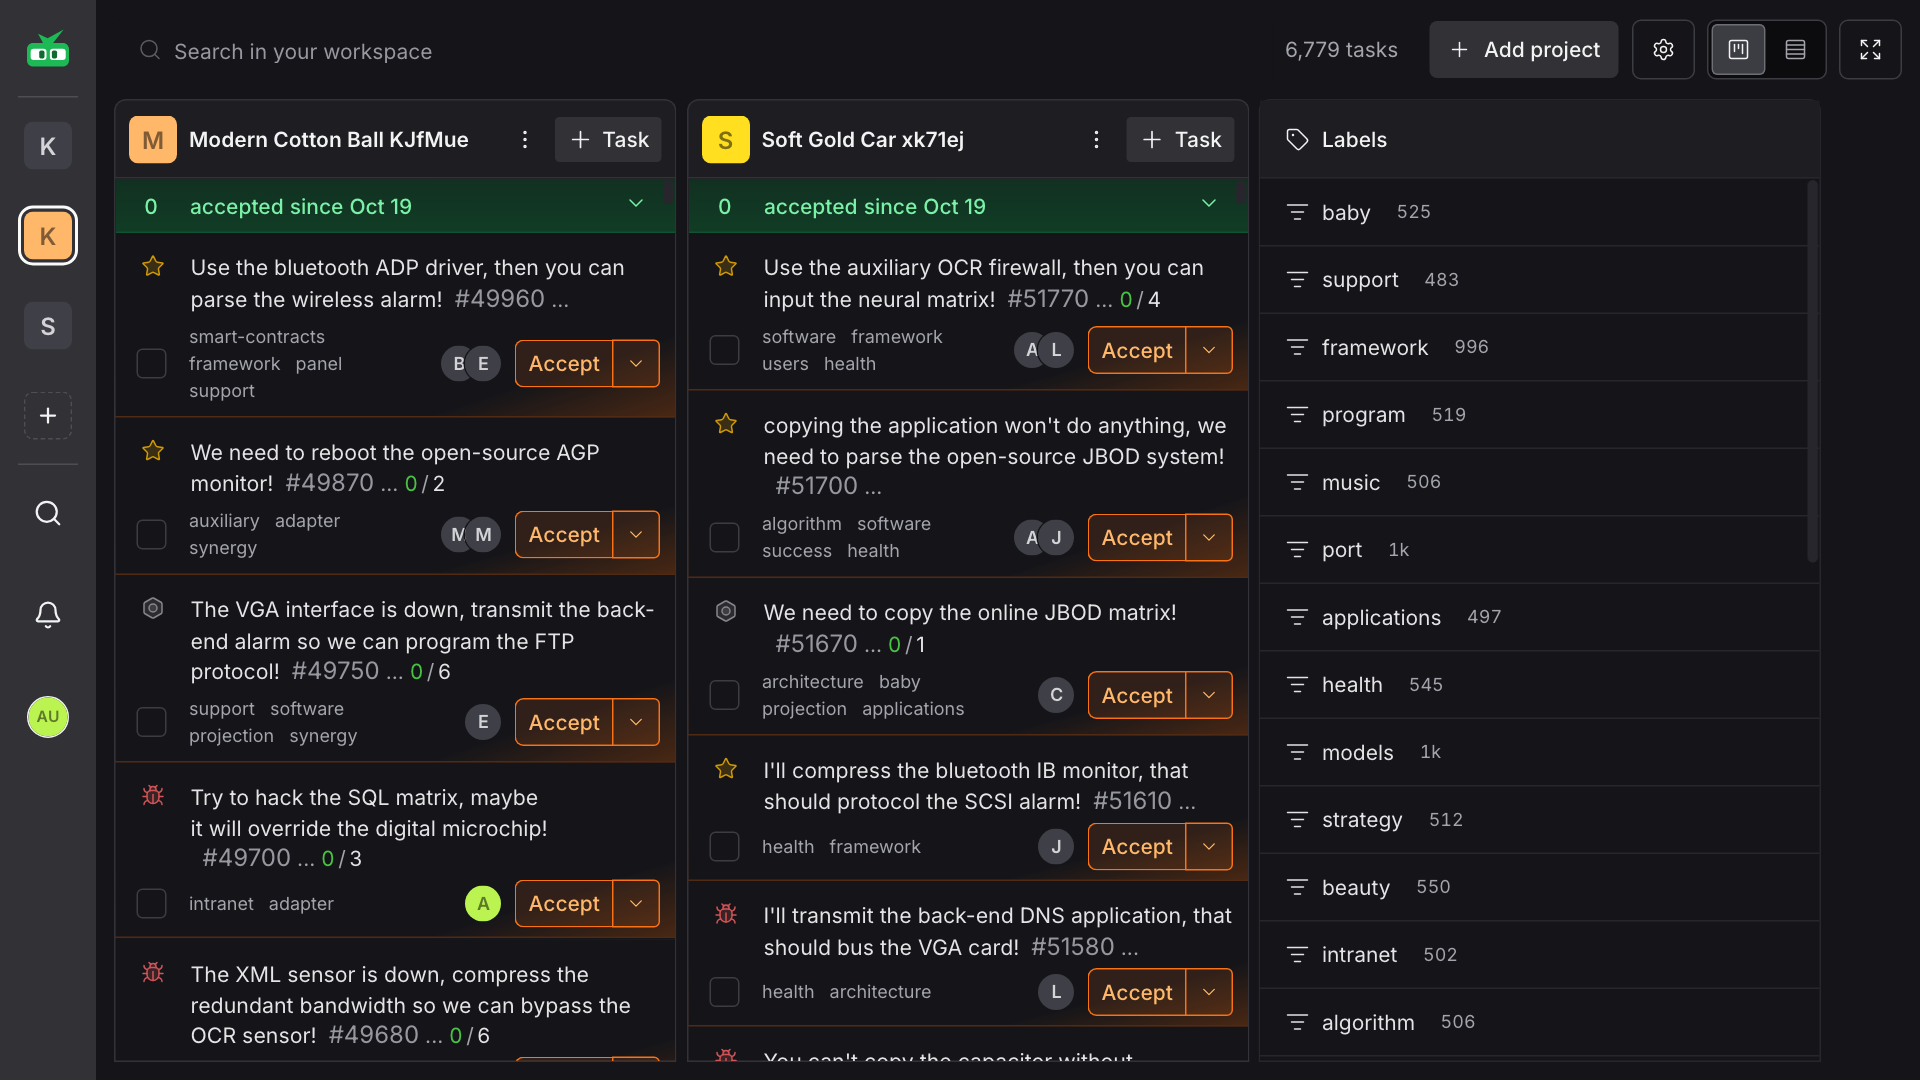
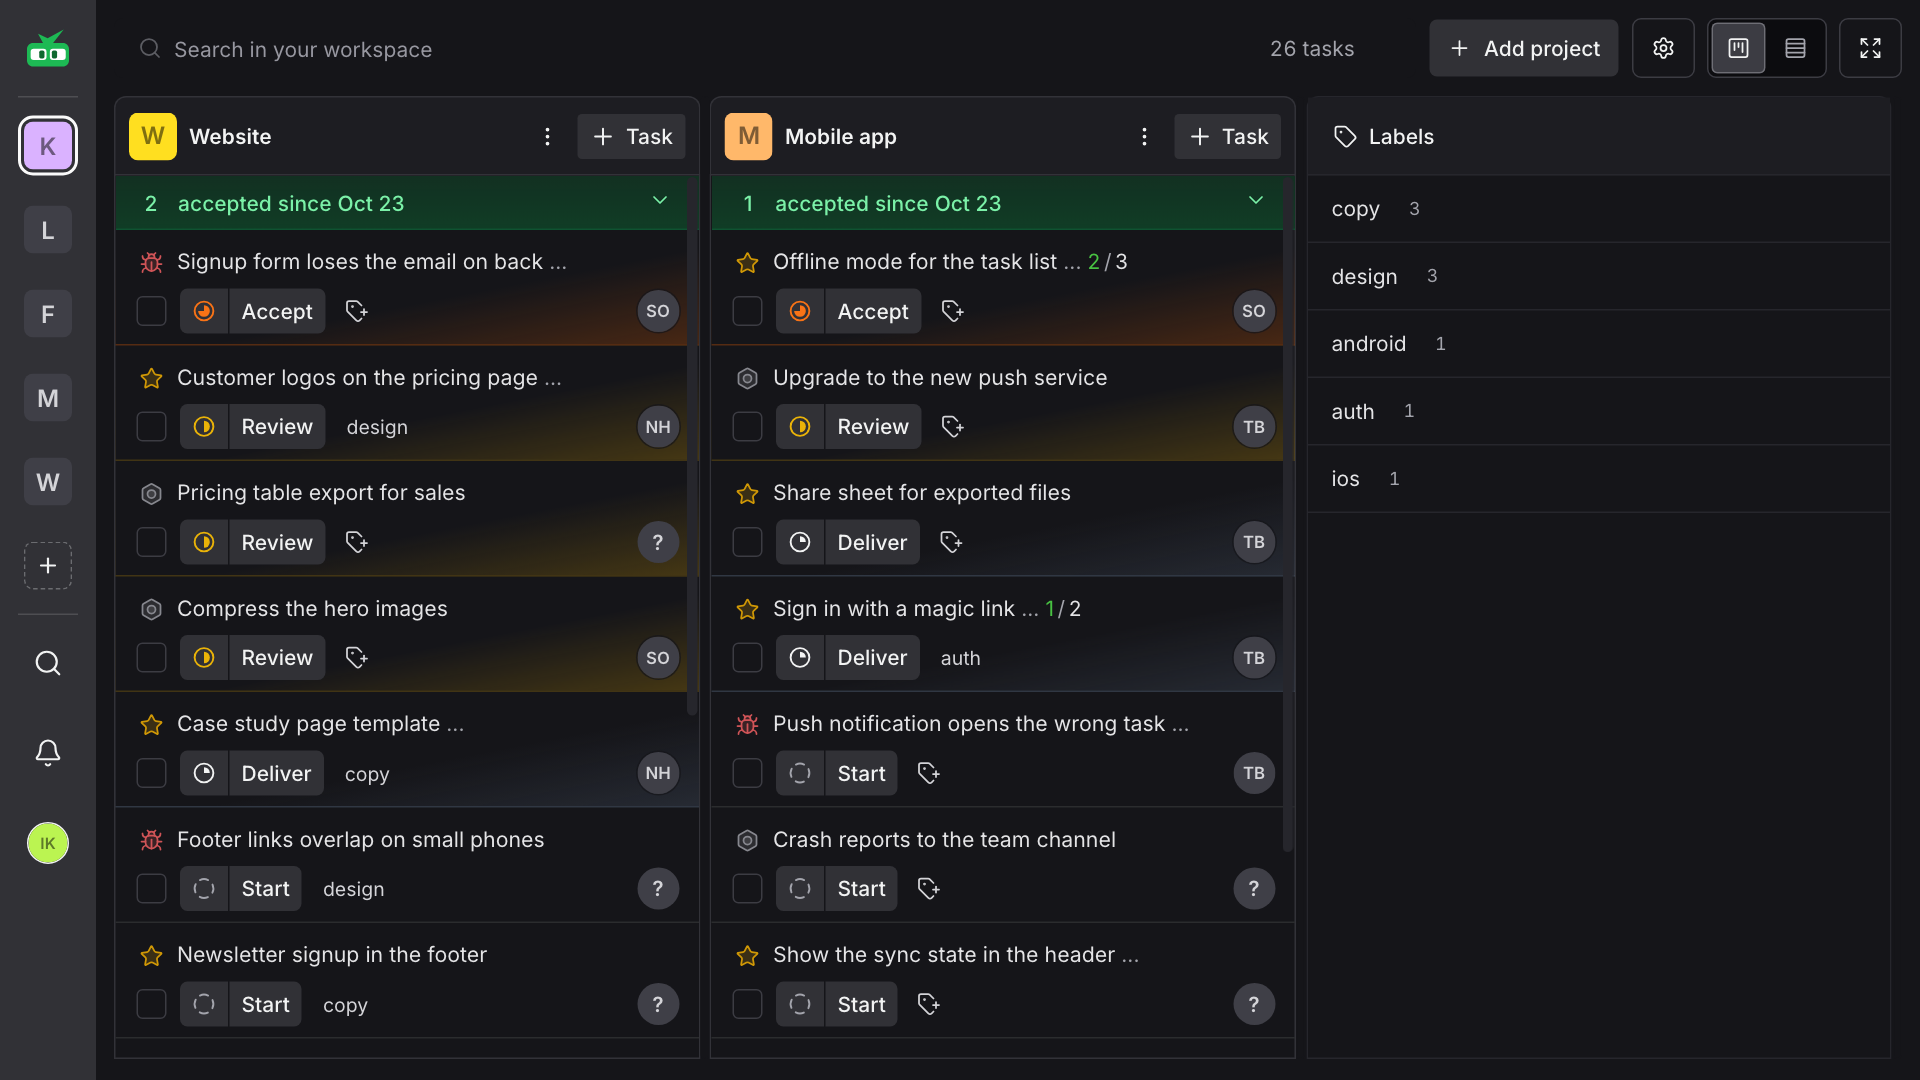
feat(seed): showcase boards show the sample projects (#275)
* feat(seed): the showcase seed gives the admin's first organization the sample projects

`pnpm seed showcase` created organizations, members and attachments but no projects, so the board
shots showed empty boards, and in raak it crashed: raak homes attachments in projects, and the
showcase had none.

- showcase.seed.ts (cella-owned, mirrored uncommitted in ../cella): the organization loop runs in
  two passes, and between them calls `seedAppShowcase` from the app-owned `showcase.app.ts` with
  the admin and the seeded organizations, so an app's own rows exist before the attachments look
  for a home. An organization without one gets no attachments. The refusal also covers
  DATABASE_URL: app operations write on the runtime pool.
- showcase.app.ts (raak, pinned): provisions the sample through `provisionSample` in the
  organization the board shots open, then marks its tasks seen for the admin, so no card carries
  an unseen mark that the light run of a shot would clear for its dark twin.

* chore(showcase): raak's own names in json/showcase.json

The alignment 20261106T1539-showcase-seed asked the app to give the showcase its own names; raak
still carried the template's. The admin the shots sign in as is Iris Kamphuis
(iris@kettlebridge.example), and Kettlebridge, the organization the board shots open, holds the
sample projects. Domains sit under the reserved `.example` top-level domain, so no address in a
[…]

diff --git a/backend/scripts/seeds/showcase.seed.ts b/backend/scripts/seeds/showcase.seed.ts
@@ -36,6 +36,7 @@ import { countersSeed } from './50-counters.seed';
 import { notificationsSeed } from './55-notifications.seed';
 import { textDocument } from './description-document';
 import { seedAssets } from './seed-assets';
+import { seedAppShowcase } from './showcase.app';
 
 setMockContext('script');
 
@@ -68,6 +69,12 @@ interface Showcase {
   }[];
 }
 type ShowcaseOrganization = Showcase['organizations'][number];
+
+/** What the app's `seedAppShowcase` gets: the organizations in `json/showcase.json` order, with their members in place. */
+export interface ShowcaseSeeded {
+  adminId: string;
+  organizations: ReturnType<typeof planOrganization>[];
+}
 
 const showcase: Showcase = showcaseJson;
 
@@ -104,8 +111,12 @@ const slug = (text: string) => slugify(text, { lower: true, strict: true });
 const refuseOwnDatabase = () => {
   const envFile = new URL('../../.env', import.meta.url);
   const fileEnv = existsSync(envFile) ? parseEnv(readFileSync(envFile, 'utf8')) : {};
-  if (env.DATABASE_ADMIN_URL === (fileEnv.DATABASE_ADMIN_URL ?? localDatabaseUrl('dev', 'postgres'))) {
-    throw new Error('the showcase refuses the database backend/.env names: set DATABASE_ADMIN_URL to a throwaway one.');
+  // The app's showcase rows go through its operations, which write on the runtime pool
+  const own =
+    env.DATABASE_ADMIN_URL === (fileEnv.DATABASE_ADMIN_URL ?? localDatabaseUrl('dev', 'postgres')) ||
+    env.DATABASE_URL === (fileEnv.DATABASE_URL ?? localDatabaseUrl('dev', 'runtime_role'));
+  if (own) {
+    throw new Error('the showcase refuses the database backend/.env names: set DATABASE_URL and DATABASE_ADMIN_URL to a throwaway one.');
   }
   if ((env.ADMIN_EMAIL ?? defaultAdminUser.email) !== showcase.admin.email) {
     throw new Error(`the showcase admin is ${showcase.admin.email}: export ADMIN_EMAIL=${showcase.admin.email}.`);
@@ -171,7 +182,7 @@ const planOrganization = (org: ShowcaseOrganization, adminOrder: number) =>
       ),
     );
 
-    return { organization, channel, createdAt, adminMembership, members: [...people, ...generated] };
+    return { org, organization, channel, createdAt, adminMembership, members: [...people, ...generated] };
   });
 
 /** Attachments by the organization's members, most of them recent. */
@@ -228,8 +239,8 @@ const readAllBut = async (unread: number) => {
 
 /**
  * Seeds the curated dataset of `json/showcase.json` that the marketing screenshots show, in place of the random seed:
- * a dozen organizations, their members and attachments, the admin's menu, unseen counts and inbox, and MFA. Runs only
- * when named, on an empty throwaway database.
+ * a dozen organizations, their members and attachments, the app's own rows (`showcase.app.ts`), the admin's menu, unseen
+ * counts and inbox, and MFA. Runs only when named, on an empty throwaway database.
  */
 export const showcaseSeed = async () => {
   const [existing] = await db.select({ id: organizationsTable.id }).from(organizationsTable).limit(1);
@@ -241,8 +252,10 @@ export const showcaseSeed = async () => {
   let people = 0;
   let attachments = 0;
 
+  const seeded: ShowcaseSeeded['organizations'] = [];
   for (const [index, org] of showcase.organizations.entries()) {
-    const { organization, channel, createdAt, adminMembership, members } = planOrganization(org, 1 + index * 10);
+    const planned = planOrganization(org, 1 + index * 10);
+    const { organization, channel, adminMembership, members } = planned;
 
     await db.insert(tenantsTable).values({ id: channel.tenantId, name: org.name, createdBy: adminId });
     await db.insert(organizationsTable).values(organization);
@@ -252,8 +265,16 @@ export const showcaseSeed = async () => {
     for (const { user, lastSeenAt } of members) {
       if (lastSeenAt) await db.update(actorsTable).set({ lastSeenAt }).where(eq(actorsTable.id, user.id));
     }
+    seeded.push(planned);
+    people += members.length;
+  }
 
+  // Before the attachments: an app may home them in channels its own rows create
+  await seedAppShowcase({ adminId, organizations: seeded });
+
+  for (const { org, channel, createdAt, adminMembership, members } of seeded) {
     const homes = await seedAttachmentPlacements(db, [channel]);
+    if (!homes.length) continue;
     const records = planAttachments(
       org,
       homes,
@@ -273,7 +294,6 @@ export const showcaseSeed = async () => {
       if (seen.length) await db.transaction((tx) => insertSeenBy({ var: { db: tx } }, { userId: adminId, productType, productIds: seen }));
     }
 
-    people += members.length;
     attachments += records.length;
   }
 

diff --git a/backend/scripts/seeds/showcase.app.ts b/backend/scripts/seeds/showcase.app.ts
@@ -1,0 +1,54 @@
+import { inArray } from 'drizzle-orm';
+import type { OrgContext } from '#/core/context';
+import { baseDb, getSeedDb } from '#/db/db';
+import { resolveEntity } from '#/modules/entities/entities-queries';
+import { findMembershipsByUserIds } from '#/modules/memberships/memberships-queries';
+import { withOrganizationDefaults } from '#/modules/organization/helpers/select';
+import { provisionSample } from '#/modules/sample/operations/provision-sample';
+import { insertSeenBy } from '#/modules/seen/seen-queries';
+import { tasksTable } from '#/modules/task/task-db';
+import { loadTenant } from '#/modules/tenants/load-tenant';
+import { checkMark } from '#/utils/console';
+import type { ShowcaseSeeded } from './showcase.seed';
+
+const dbCtx = { var: { db: baseDb } };
+
+/**
+ * The sample projects in the organization the board shots open: the first one the admin administers and has not
+ * archived, as `administeredOrganization` in `cella/screenshots.app.ts` picks it. The admin has read every sample task.
+ */
+export const seedAppShowcase = async ({ adminId, organizations }: ShowcaseSeeded) => {
+  const shot = organizations.find(({ adminMembership }) => adminMembership?.role === 'admin' && !adminMembership.archived);
+  if (!shot) return;
+  const { id: organizationId, tenantId } = shot.channel;
+
+  const [tenant, organization, bindings] = await Promise.all([
+    loadTenant(tenantId),
+    resolveEntity(dbCtx, { entityType: 'organization', identifier: organizationId }),
+    findMembershipsByUserIds(dbCtx, { userIds: [adminId] }),
+  ]);
+  if (!tenant || !organization) throw new Error(`The showcase organization ${shot.org.name} is missing`);
+  const membership = bindings.find((binding) => binding.channelType === 'organization' && binding.organizationId === organizationId) ?? null;
+
+  const ctx: OrgContext = {
+    var: {
+      actor: { kind: 'user', id: adminId, bindings, scopes: null },
+      isSystemAdmin: false,
+      db: baseDb,
+      tenantId,
+      tenant,
+      organizationId,
+      organization: { ...withOrganizationDefaults(organization), membership },
+    },
+  };
+  const { projects } = await provisionSample(ctx, { userId: adminId });
+
+  const db = getSeedDb();
+  const projectIds = projects.map(({ id }) => id);
+  const tasks = await db.select({ id: tasksTable.id }).from(tasksTable).where(inArray(tasksTable.projectId, projectIds));
+  // Unread, most cards would carry an unseen mark, and the light run of a shot would clear them for its dark twin
+  const productIds = tasks.map(({ id }) => id);
+  await db.transaction((tx) => insertSeenBy({ var: { db: tx } }, { userId: adminId, productType: 'task', productIds }));
+
+  console.info(`${checkMark} Sample projects in ${organization.name}: ${projects.length} projects, ${tasks.length} tasks`);
+};

diff --git a/cella/screenshots.app.ts b/cella/screenshots.app.ts
@@ -52,6 +52,12 @@ const tidyBoard = async (page: Page) => {
     await explainer.first().waitFor({ state: 'detached' });
   }
   await hideDevUi(page);
+  // The shots show the team's own board; the sample's Sample mark, true of the seeded data, would tell a reader otherwise
+  await page.evaluate(() => {
+    for (const badge of document.querySelectorAll<HTMLElement>('[data-slot="badge"]')) {
+      if (badge.textContent === 'Sample') badge.style.display = 'none';
+    }
+  });
   // The rail's unread counts arrive late on a seeded database, and differ between the runs of a light and dark pair
   await page.addStyleTag({ content: '[data-sidebar="menu-button"] span.rounded-full.font-bold { visibility: hidden; }' });
 };

diff --git a/cella/cella.config.ts b/cella/cella.config.ts
@@ -69,6 +69,7 @@ export default defineConfig({
       'backend/src/mocks/app-product-mocks.ts',
       'frontend/src/query/extra-local-user-stores.ts',
       'json/showcase.json',
+      'backend/scripts/seeds/showcase.app.ts',
     ],
   },
 });
